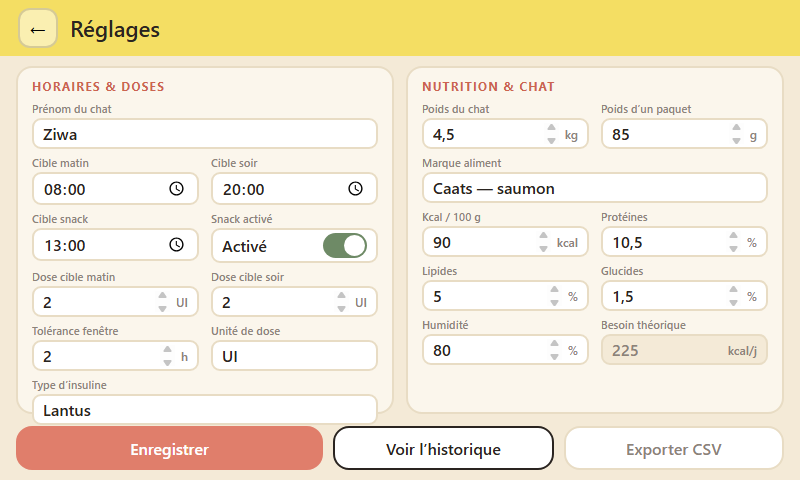
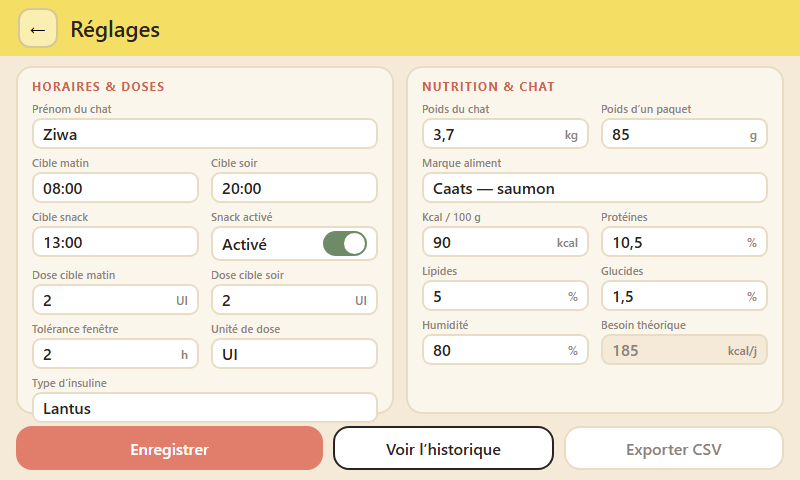
Roue iPhone + clavier AZERTY + cog + curseur invisible

diff --git a/public/app.js b/public/app.js
@@ -97,7 +97,7 @@
     sessions: { morning: null, snack: null, evening: null },
     lastShot: null, now: Date.now(), nowOffset: 0,
     view: 'main', modal: null, moment: null, toast: null, saver: false,
-    preview: null, histRange: 30, historyRows: [],
+    preview: null, histRange: 30, historyRows: [], settingsDraft: {},
   };
   // horloge (avec décalage QA optionnel ?now=HH:MM)
   function nowTs() { return Date.now() + (state.nowOffset || 0); }
@@ -232,6 +232,7 @@
     if (state.moment) appendHTML(root, momentHTML(state.moment));
     if (state.toast) appendHTML(root, `<div class="toast ${state.toast.tone || ''}">${esc(state.toast.text)}</div>`);
     if (state.saver) appendHTML(root, saverHTML());
+    if (state.modal && state.modal.type === 'wheel') initWheels();
   }
 
   // ---- vue principale ----
@@ -332,6 +333,8 @@
     else if (m.type === 'event') sheet = eventSheet(m);
     else if (m.type === 'analysis') sheet = analysisSheet(m);
     else if (m.type === 'confirm') sheet = confirmSheet(m);
+    else if (m.type === 'wheel') sheet = wheelHTML(m);
+    else if (m.type === 'kbd') sheet = kbdHTML(m);
     return scrim + sheet;
   }
 
@@ -516,46 +519,65 @@
   }
 
   /* ---- réglages ---- */
-  function field(label, key, opts) {
-    opts = opts || {};
-    const a = [`data-setting="${key}"`, `type="${opts.type || 'text'}"`];
-    if (opts.step != null) a.push(`step="${opts.step}"`);
-    if (opts.min != null) a.push(`min="${opts.min}"`);
-    if (opts.max != null) a.push(`max="${opts.max}"`);
-    if (opts.type === 'number') a.push('inputmode="decimal"');
-    return `<div class="set-f ${opts.wide ? 'wide' : ''}"><label>${esc(label)}</label><div class="val"><input ${a.join(' ')} value="${esc(state.settings[key])}">${opts.unit ? `<span class="unit">${esc(opts.unit)}</span>` : ''}</div></div>`;
+  // Spécif. de chaque champ : 'num' → roue iPhone · 'time' → double roue · 'text' → clavier.
+  const SETTING_FIELDS = {
+    cat_name: { label: 'Prénom du chat', kind: 'text', wide: true },
+    morning_time: { label: 'Cible matin', kind: 'time' },
+    evening_time: { label: 'Cible soir', kind: 'time' },
+    snack_time: { label: 'Cible snack', kind: 'time' },
+    morning_dose_target: { label: 'Dose cible matin', kind: 'num', min: 0, max: 20, step: 0.25, unit: U },
+    evening_dose_target: { label: 'Dose cible soir', kind: 'num', min: 0, max: 20, step: 0.25, unit: U },
+    window_tolerance_h: { label: 'Tolérance fenêtre', kind: 'num', min: 0, max: 6, step: 0.5, unit: 'h' },
+    dose_unit: { label: 'Unité de dose', kind: 'text' },
+    insulin_type: { label: 'Type d’insuline', kind: 'text', wide: true },
+    cat_weight_kg: { label: 'Poids du chat', kind: 'num', min: 1, max: 15, step: 0.1, unit: 'kg' },
+    food_packet_weight_g: { label: 'Poids d’un paquet', kind: 'num', min: 10, max: 200, step: 1, unit: 'g' },
+    food_brand: { label: 'Marque aliment', kind: 'text', wide: true },
+    food_kcal_per_100g: { label: 'Kcal / 100 g', kind: 'num', min: 0, max: 300, step: 1, unit: 'kcal' },
+    food_protein_pct: { label: 'Protéines', kind: 'num', min: 0, max: 100, step: 0.5, unit: '%' },
+    food_fat_pct: { label: 'Lipides', kind: 'num', min: 0, max: 100, step: 0.5, unit: '%' },
+    food_carbs_pct: { label: 'Glucides', kind: 'num', min: 0, max: 100, step: 0.5, unit: '%' },
+    food_humidity_pct: { label: 'Humidité', kind: 'num', min: 0, max: 100, step: 1, unit: '%' },
+  };
+  function fieldUnit(f) { return typeof f.unit === 'function' ? f.unit() : (f.unit || ''); }
+  function setField(key) {
+    const f = SETTING_FIELDS[key], v = state.settingsDraft[key];
+    const disp = f.kind === 'num' ? nf(v) : v;
+    const unit = fieldUnit(f);
+    return `<div class="set-f ${f.wide ? 'wide' : ''}"><label>${esc(f.label)}</label>
+      <div class="val tap" data-act="setField" data-key="${key}"><span>${esc(disp)}</span>${unit ? `<span class="unit">${esc(unit)}</span>` : ''}</div></div>`;
   }
   function settingsHTML() {
-    const s = state.settings;
+    const s = state.settingsDraft;
     return `<div class="set">
       <div class="set-head"><button class="bk tap" data-act="back">←</button><div class="ttl">Réglages</div></div>
       <div class="set-cols">
         <div class="set-col">
           <h4>Horaires &amp; doses</h4>
           <div class="set-grid">
-            ${field('Prénom du chat', 'cat_name', { wide: true })}
-            ${field('Cible matin', 'morning_time', { type: 'time' })}
-            ${field('Cible soir', 'evening_time', { type: 'time' })}
-            ${field('Cible snack', 'snack_time', { type: 'time' })}
+            ${setField('cat_name')}
+            ${setField('morning_time')}
+            ${setField('evening_time')}
+            ${setField('snack_time')}
             <div class="set-f"><label>Snack activé</label><div class="val"><span id="snackLbl">${s.snack_enabled ? 'Activé' : 'Désactivé'}</span><span class="toggle tap ${s.snack_enabled ? 'on' : ''}" id="snackToggle" data-act="snackToggle"><i></i></span></div></div>
-            ${field('Dose cible matin', 'morning_dose_target', { type: 'number', step: '0.25', min: '0', unit: U() })}
-            ${field('Dose cible soir', 'evening_dose_target', { type: 'number', step: '0.25', min: '0', unit: U() })}
-            ${field('Tolérance fenêtre', 'window_tolerance_h', { type: 'number', step: '0.5', min: '0', unit: 'h' })}
-            ${field('Unité de dose', 'dose_unit', {})}
-            ${field('Type d’insuline', 'insulin_type', { wide: true })}
+            ${setField('morning_dose_target')}
+            ${setField('evening_dose_target')}
+            ${setField('window_tolerance_h')}
+            ${setField('dose_unit')}
+            ${setField('insulin_type')}
           </div>
         </div>
         <div class="set-col">
           <h4>Nutrition &amp; chat</h4>
           <div class="set-grid">
-            ${field('Poids du chat', 'cat_weight_kg', { type: 'number', step: '0.1', min: '0', unit: 'kg' })}
-            ${field('Poids d’un paquet', 'food_packet_weight_g', { type: 'number', step: '1', min: '1', unit: 'g' })}
-            ${field('Marque aliment', 'food_brand', { wide: true })}
-            ${field('Kcal / 100 g', 'food_kcal_per_100g', { type: 'number', step: '1', min: '0', unit: 'kcal' })}
-            ${field('Protéines', 'food_protein_pct', { type: 'number', step: '0.1', min: '0', unit: '%' })}
-            ${field('Lipides', 'food_fat_pct', { type: 'number', step: '0.1', min: '0', unit: '%' })}
-            ${field('Glucides', 'food_carbs_pct', { type: 'number', step: '0.1', min: '0', unit: '%' })}
-            ${field('Humidité', 'food_humidity_pct', { type: 'number', step: '1', min: '0', unit: '%' })}
+            ${setField('cat_weight_kg')}
+            ${setField('food_packet_weight_g')}
+            ${setField('food_brand')}
+            ${setField('food_kcal_per_100g')}
+            ${setField('food_protein_pct')}
+            ${setField('food_fat_pct')}
+            ${setField('food_carbs_pct')}
+            ${setField('food_humidity_pct')}
             <div class="set-f"><label>Besoin théorique</label><div class="val ro">${Math.round(s.cat_weight_kg * 50)}<span class="unit">kcal/j</span></div></div>
           </div>
         </div>
@@ -567,6 +589,119 @@
       </div>
     </div>`;
   }
+
+  /* ---- roue iPhone (picker) + clavier AZERTY ---- */
+  const ROW_H = 54;            // hauteur d'une ligne de roue (px)
+  function rangeValues(min, max, step) {
+    const out = []; const n = Math.round((max - min) / step);
+    for (let i = 0; i <= n; i++) out.push(Math.round((min + i * step) * 100) / 100);
+    return out;
+  }
+  function nearestIdx(values, v) {
+    let best = 0, bd = Infinity;
+    values.forEach((x, i) => { const d = Math.abs(x - v); if (d < bd) { bd = d; best = i; } });
+    return best;
+  }
+  function openPicker(key) {
+    const f = SETTING_FIELDS[key], v = state.settingsDraft[key];
+    if (f.kind === 'text') { state.modal = { type: 'kbd', key, title: f.label, value: String(v == null ? '' : v), shift: !String(v).length }; render(); return; }
+    if (f.kind === 'time') {
+      const [hh, mm] = String(v).split(':').map(Number);
+      const hours = rangeValues(0, 23, 1), mins = rangeValues(0, 55, 5);
+      state.modal = { type: 'wheel', key, title: f.label, kind: 'time',
+        columns: [{ values: hours, idx: nearestIdx(hours, hh), pad: true }, { values: mins, idx: nearestIdx(mins, mm), pad: true }] };
+      render(); return;
+    }
+    const values = rangeValues(f.min, f.max, f.step);
+    state.modal = { type: 'wheel', key, title: f.label, kind: 'num', unit: fieldUnit(f),
+      columns: [{ values, idx: nearestIdx(values, v) }] };
+    render();
+  }
+  function wheelHTML(m) {
+    const cols = m.columns.map((c, ci) => {
+      const opts = c.values.map((val, i) =>
+        `<div class="opt ${i === c.idx ? 'sel' : ''}" data-act="wheelTap" data-col="${ci}" data-i="${i}">${c.pad ? pad(val) : nf(val)}</div>`).join('');
+      return `<div class="wheel" data-col="${ci}"><div class="pad"></div>${opts}<div class="pad"></div></div>`;
+    }).join(m.kind === 'time' ? '<div class="wheel-sep">:</div>' : '');
+    return `<div class="sheet">
+      <div class="sheet-head"><div class="ttl">${esc(m.title)}</div><button class="x tap" data-act="closeModal">✕</button></div>
+      <div class="sheet-body">
+        <div class="picker">
+          <div class="pick-band"></div>
+          <div class="pick-wheels">${cols}</div>
+          ${m.unit ? `<div class="pick-unit">${esc(m.unit)}</div>` : ''}
+        </div>
+      </div>
+      <div class="sheet-foot">
+        <button class="btn ghost tap" data-act="closeModal">Annuler</button>
+        <button class="btn coral tap" data-act="wheelValidate">Valider</button>
+      </div>
+    </div>`;
+  }
+  // (ré)attache le défilement natif des roues après chaque render
+  function initWheels() {
+    const m = state.modal; if (!m || m.type !== 'wheel') return;
+    $$('.wheel').forEach(w => {
+      const ci = +w.dataset.col, col = m.columns[ci];
+      w.scrollTop = col.idx * ROW_H;
+      let t = null;
+      w.addEventListener('scroll', () => {
+        const i = Math.max(0, Math.min(col.values.length - 1, Math.round(w.scrollTop / ROW_H)));
+        if (i !== col.idx) {
+          col.idx = i;
+          w.querySelectorAll('.opt').forEach((o, k) => o.classList.toggle('sel', k === i));
+        }
+        clearTimeout(t); t = setTimeout(() => { w.scrollTo({ top: col.idx * ROW_H, behavior: 'smooth' }); }, 90);
+      }, { passive: true });
+    });
+  }
+  function wheelTap(node) {
+    const ci = +node.dataset.col, i = +node.dataset.i;
+    const w = $$('.wheel')[ci]; if (w) w.scrollTo({ top: i * ROW_H, behavior: 'smooth' });
+  }
+  function wheelValidate() {
+    const m = state.modal;
+    if (m.kind === 'time') {
+      const h = m.columns[0].values[m.columns[0].idx], mn = m.columns[1].values[m.columns[1].idx];
+      state.settingsDraft[m.key] = pad(h) + ':' + pad(mn);
+    } else {
+      state.settingsDraft[m.key] = m.columns[0].values[m.columns[0].idx];
+    }
+    state.modal = null; render();
+  }
+
+  // clavier AZERTY tactile (texte) — minuscule/majuscule, accents usuels, chiffres
+  const KBD_ROWS = [
+    ['a', 'z', 'e', 'r', 't', 'y', 'u', 'i', 'o', 'p'],
+    ['q', 's', 'd', 'f', 'g', 'h', 'j', 'k', 'l', 'm'],
+    ['w', 'x', 'c', 'v', 'b', 'n', 'é', 'è', 'à', '-'],
+    ['0', '1', '2', '3', '4', '5', '6', '7', '8', '9'],
+  ];
+  function kbdHTML(m) {
+    const tx = m.shift ? (s => s.toUpperCase()) : (s => s);
+    const rows = KBD_ROWS.map(r => `<div class="krow">${r.map(k =>
+      `<button class="key tap" data-act="kbdKey" data-k="${tx(k)}">${tx(k)}</button>`).join('')}</div>`).join('');
+    return `<div class="sheet kbd-sheet">
+      <div class="sheet-head"><div class="ttl">${esc(m.title)}</div><button class="x tap" data-act="closeModal">✕</button></div>
+      <div class="kbd-disp"><span>${esc(m.value) || '<i>—</i>'}</span><b class="caret"></b></div>
+      <div class="kbd">
+        ${rows}
+        <div class="krow">
+          <button class="key wide tap ${m.shift ? 'on' : ''}" data-act="kbdShift">⇧</button>
+          <button class="key spc tap" data-act="kbdKey" data-k=" ">espace</button>
+          <button class="key wide tap" data-act="kbdBack">⌫</button>
+        </div>
+      </div>
+      <div class="sheet-foot">
+        <button class="btn ghost tap" data-act="closeModal">Annuler</button>
+        <button class="btn coral tap" data-act="kbdOk">Valider</button>
+      </div>
+    </div>`;
+  }
+  function kbdKey(k) { const m = state.modal; m.value = (m.value || '') + k; m.shift = false; render(); }
+  function kbdBack() { const m = state.modal; m.value = (m.value || '').slice(0, -1); render(); }
+  function kbdShift() { const m = state.modal; m.shift = !m.shift; render(); }
+  function kbdOk() { const m = state.modal; state.settingsDraft[m.key] = m.value.trim(); state.modal = null; render(); }
 
   /* ---- historique ---- */
   function buildHistoryRows(sessions, events) {
@@ -700,13 +835,12 @@
   }
 
   async function saveSettings() {
-    const patch = {};
-    $$('[data-setting]').forEach(inp => { patch[inp.dataset.setting] = inp.type === 'number' ? parseFloat(inp.value) : inp.value; });
+    const patch = { ...state.settingsDraft };
     const tg = $('#snackToggle'); if (tg) patch.snack_enabled = tg.classList.contains('on');
-    try { state.settings = await API.post('/api/settings', patch); toast('Réglages enregistrés', 'green'); render(); }
+    try { state.settings = await API.post('/api/settings', patch); state.settingsDraft = { ...state.settings }; toast('Réglages enregistrés', 'green'); render(); }
     catch (e) { toast('Échec de l’enregistrement', 'coral'); }
   }
-  function toggleSnackSetting(node) { node.classList.toggle('on'); const lbl = $('#snackLbl'); if (lbl) lbl.textContent = node.classList.contains('on') ? 'Activé' : 'Désactivé'; }
+  function toggleSnackSetting(node) { node.classList.toggle('on'); state.settingsDraft.snack_enabled = node.classList.contains('on'); const lbl = $('#snackLbl'); if (lbl) lbl.textContent = node.classList.contains('on') ? 'Activé' : 'Désactivé'; }
   function exportCsv() { const a = document.createElement('a'); a.href = '/api/export.csv?days=90'; a.download = ''; document.body.appendChild(a); a.click(); a.remove(); toast('Export CSV (90 jours)', 'coral'); }
 
   async function openHistory() {
@@ -734,7 +868,7 @@
       case 'snack': openSnack(); break;
       case 'alarm': openEvent(arg); break;
       case 'cancel': askCancel(arg); break;
-      case 'settings': state.view = 'settings'; render(); poke(); break;
+      case 'settings': state.settingsDraft = { ...state.settings }; state.view = 'settings'; render(); poke(); break;
       case 'back': state.view = 'main'; render(); poke(); break;
       case 'history': openHistory(); break;
       case 'history-back': state.view = 'settings'; render(); poke(); break;
@@ -752,6 +886,13 @@
       case 'saveSettings': saveSettings(); break;
       case 'snackToggle': toggleSnackSetting(node); break;
       case 'exportCsv': exportCsv(); break;
+      case 'setField': openPicker(node.dataset.key); break;
+      case 'wheelTap': wheelTap(node); break;
+      case 'wheelValidate': wheelValidate(); break;
+      case 'kbdKey': kbdKey(node.dataset.k); break;
+      case 'kbdBack': kbdBack(); break;
+      case 'kbdShift': kbdShift(); break;
+      case 'kbdOk': kbdOk(); break;
       case 'wake': wake(); break;
     }
     poke();
@@ -822,7 +963,7 @@
     state.qa = !!(state.preview || state.qaView || state.qaModal || nowM || state.qaSaver);
   }
   async function applyQA() {
-    if (state.qaView === 'settings') state.view = 'settings';
+    if (state.qaView === 'settings') { state.settingsDraft = { ...state.settings }; state.view = 'settings'; }
     else if (state.qaView === 'history') {
       try { const [s, e] = await Promise.all([API.get('/api/sessions?days=30'), API.get('/api/events?days=30')]); state.historyRows = buildHistoryRows(s, e); } catch (_) { }
       state.view = 'history';
@@ -839,6 +980,10 @@
       if (q.get('sev')) state.modal.sev = q.get('sev');
     }
     else if (md === 'analysis') state.modal = { type: 'analysis', event: { type: 'hypo', glucose_mgdl: 48 }, phase: 'result', res: DEMO_ANALYSIS };
+    // QA pickers : ?view=settings&pick=KEY (roue) ou &kbd=KEY (clavier)
+    const q2 = new URLSearchParams(location.search);
+    if (state.qaView === 'settings' && q2.get('pick')) openPicker(q2.get('pick'));
+    if (state.qaView === 'settings' && q2.get('kbd')) openPicker(q2.get('kbd'));
     if (state.qaSaver) state.saver = true;
   }
   async function init() {

diff --git a/public/styles.css b/public/styles.css
@@ -212,6 +212,35 @@ body.kiosk .device{border-radius:0;box-shadow:none;}
 .set-f .val input{flex:1 1 auto;min-width:0;border:none;background:transparent;font-family:inherit;font-weight:600;font-size:16px;color:inherit;outline:none;padding:0;-webkit-appearance:none;appearance:none;}
 .set-f .val input::-webkit-outer-spin-button,.set-f .val input::-webkit-inner-spin-button{opacity:.5;height:24px;}
 .set-f .val.ro{color:var(--dim);background:var(--cream);}
+.set-f .val.tap span:first-child{flex:1 1 auto;min-width:0;overflow:hidden;text-overflow:ellipsis;white-space:nowrap;}
+
+/* ---- roue iPhone (picker) ---- */
+.picker{position:relative;display:flex;flex-direction:column;align-items:center;width:100%;}
+.pick-wheels{display:flex;gap:10px;align-items:stretch;position:relative;}
+.pick-band{position:absolute;top:50%;left:50%;transform:translate(-50%,-50%);width:min(440px,90%);height:54px;border-radius:14px;background:var(--coral-tint);border:2px solid var(--coral);pointer-events:none;z-index:0;}
+.wheel{height:270px;overflow-y:scroll;scroll-snap-type:y mandatory;-webkit-overflow-scrolling:touch;scrollbar-width:none;text-align:center;position:relative;z-index:1;min-width:96px;}
+.wheel::-webkit-scrollbar{display:none;}
+.wheel .pad{height:108px;}
+.wheel .opt{height:54px;line-height:54px;scroll-snap-align:center;font-size:30px;font-weight:600;color:#bcae98;transition:color .12s,transform .12s,opacity .12s;}
+.wheel .opt.sel{color:var(--ink);font-size:34px;font-weight:700;}
+.wheel-sep{display:flex;align-items:center;font-size:34px;font-weight:700;color:var(--ink);z-index:1;}
+.pick-unit{margin-top:10px;font-size:18px;font-weight:600;color:var(--dim);}
+
+/* ---- clavier AZERTY tactile (compact pour tenir en 480px) ---- */
+.sheet.kbd-sheet .sheet-head{padding:8px 20px 2px;}
+.kbd-disp{flex:0 0 auto;margin:0 20px 4px;min-height:44px;background:#fff;border:2px solid var(--line);border-radius:12px;display:flex;align-items:center;padding:0 14px;font-size:24px;font-weight:600;gap:2px;overflow:hidden;}
+.kbd-disp i{color:var(--dim);font-style:normal;}
+.kbd-disp .caret{width:3px;height:26px;background:var(--coral);animation:blink 1s step-end infinite;}
+@keyframes blink{50%{opacity:0}}
+.kbd{flex:0 0 auto;display:flex;flex-direction:column;gap:5px;padding:2px 10px 0;}
+.krow{display:flex;gap:5px;justify-content:center;}
+.key{flex:1 1 0;min-width:0;height:46px;border-radius:10px;border:2px solid var(--line);background:#fff;font-family:inherit;font-size:20px;font-weight:600;color:var(--ink);cursor:pointer;display:flex;align-items:center;justify-content:center;}
+.key:active{transform:scale(.94);background:var(--cream);}
+.key.on{background:var(--ink);color:#fff;border-color:var(--ink);}
+.key.wide{flex:1.4 1 0;font-size:19px;}
+.key.spc{flex:4 1 0;font-size:14px;color:var(--dim);text-transform:uppercase;letter-spacing:.1em;}
+.sheet.kbd-sheet .sheet-foot{padding:8px 20px 10px;}
+.sheet.kbd-sheet .sheet-foot .btn{min-height:46px;font-size:18px;}
 .toggle{width:44px;height:25px;border-radius:99px;background:var(--line);position:relative;flex:0 0 auto;cursor:pointer;transition:background .15s;}
 .toggle.on{background:var(--green);}
 .toggle i{position:absolute;top:2px;left:2px;width:21px;height:21px;border-radius:50%;background:#fff;transition:left .15s;}